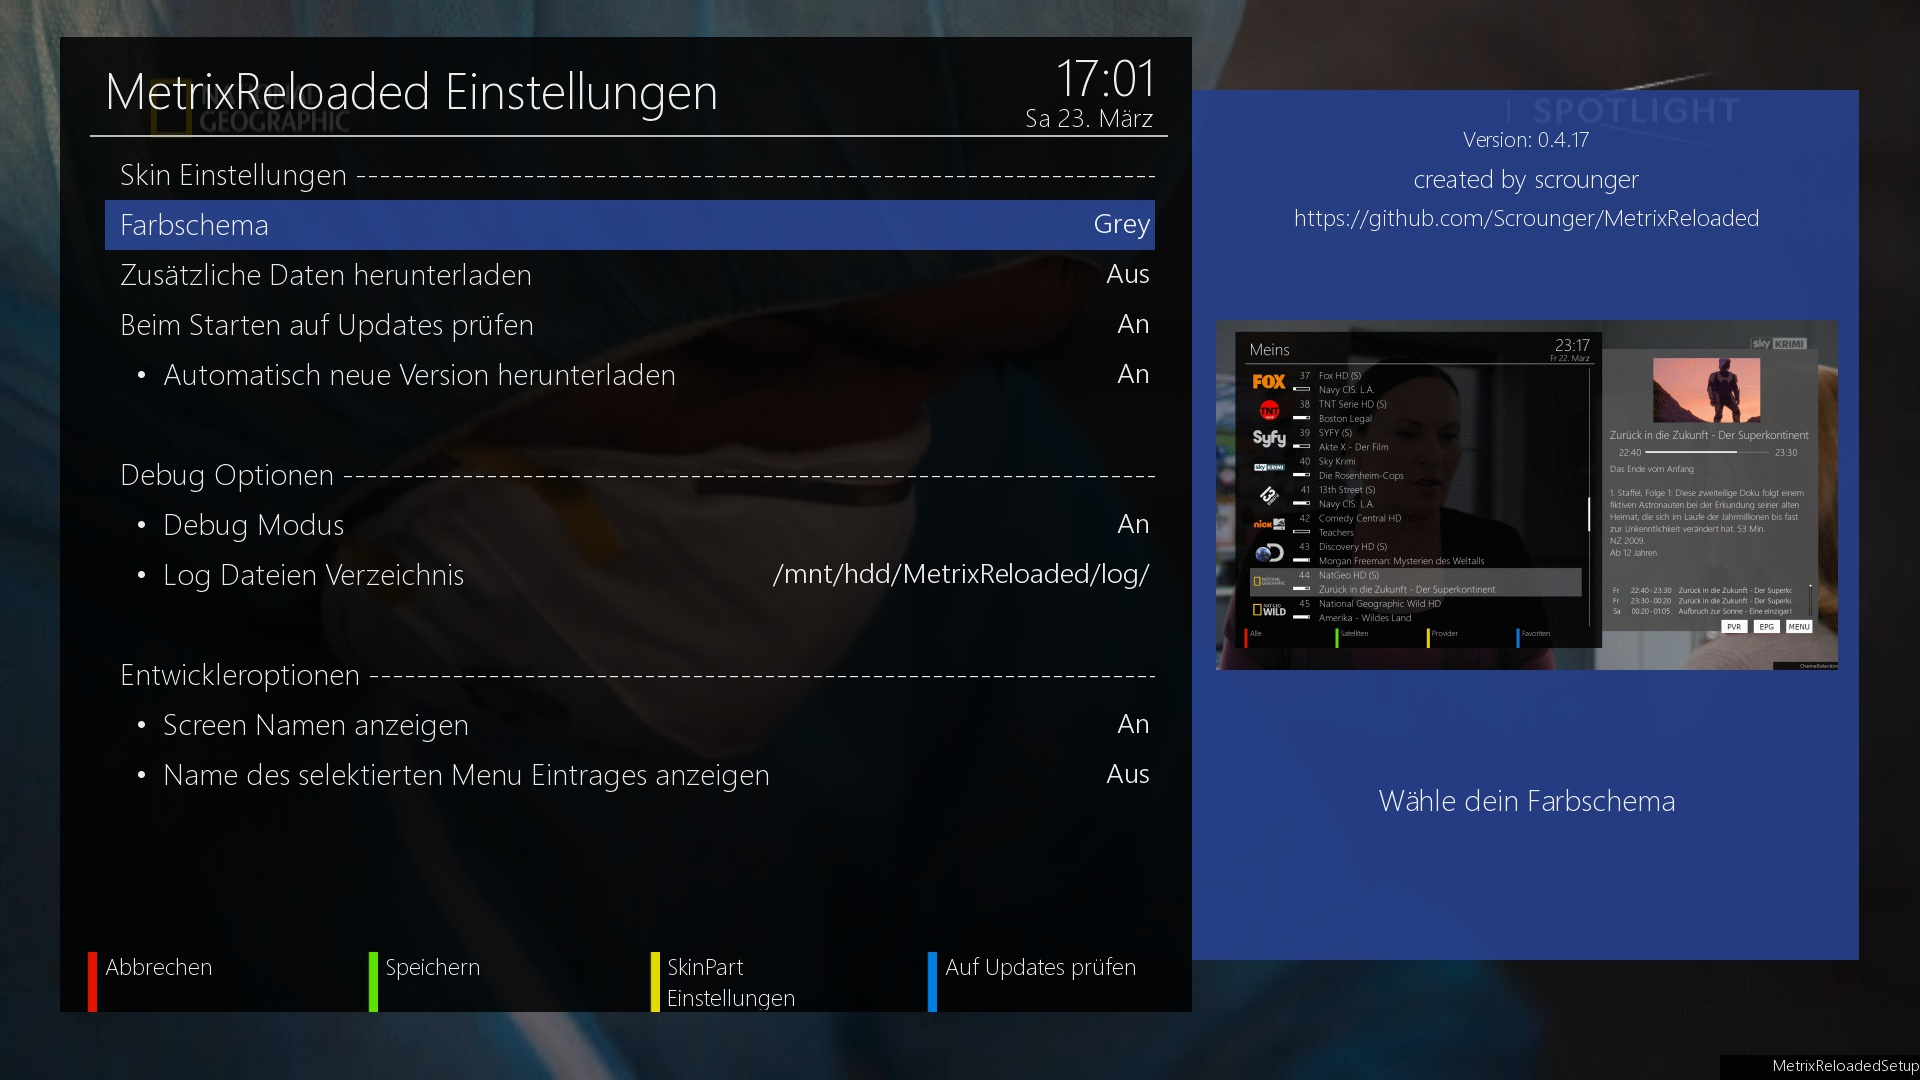
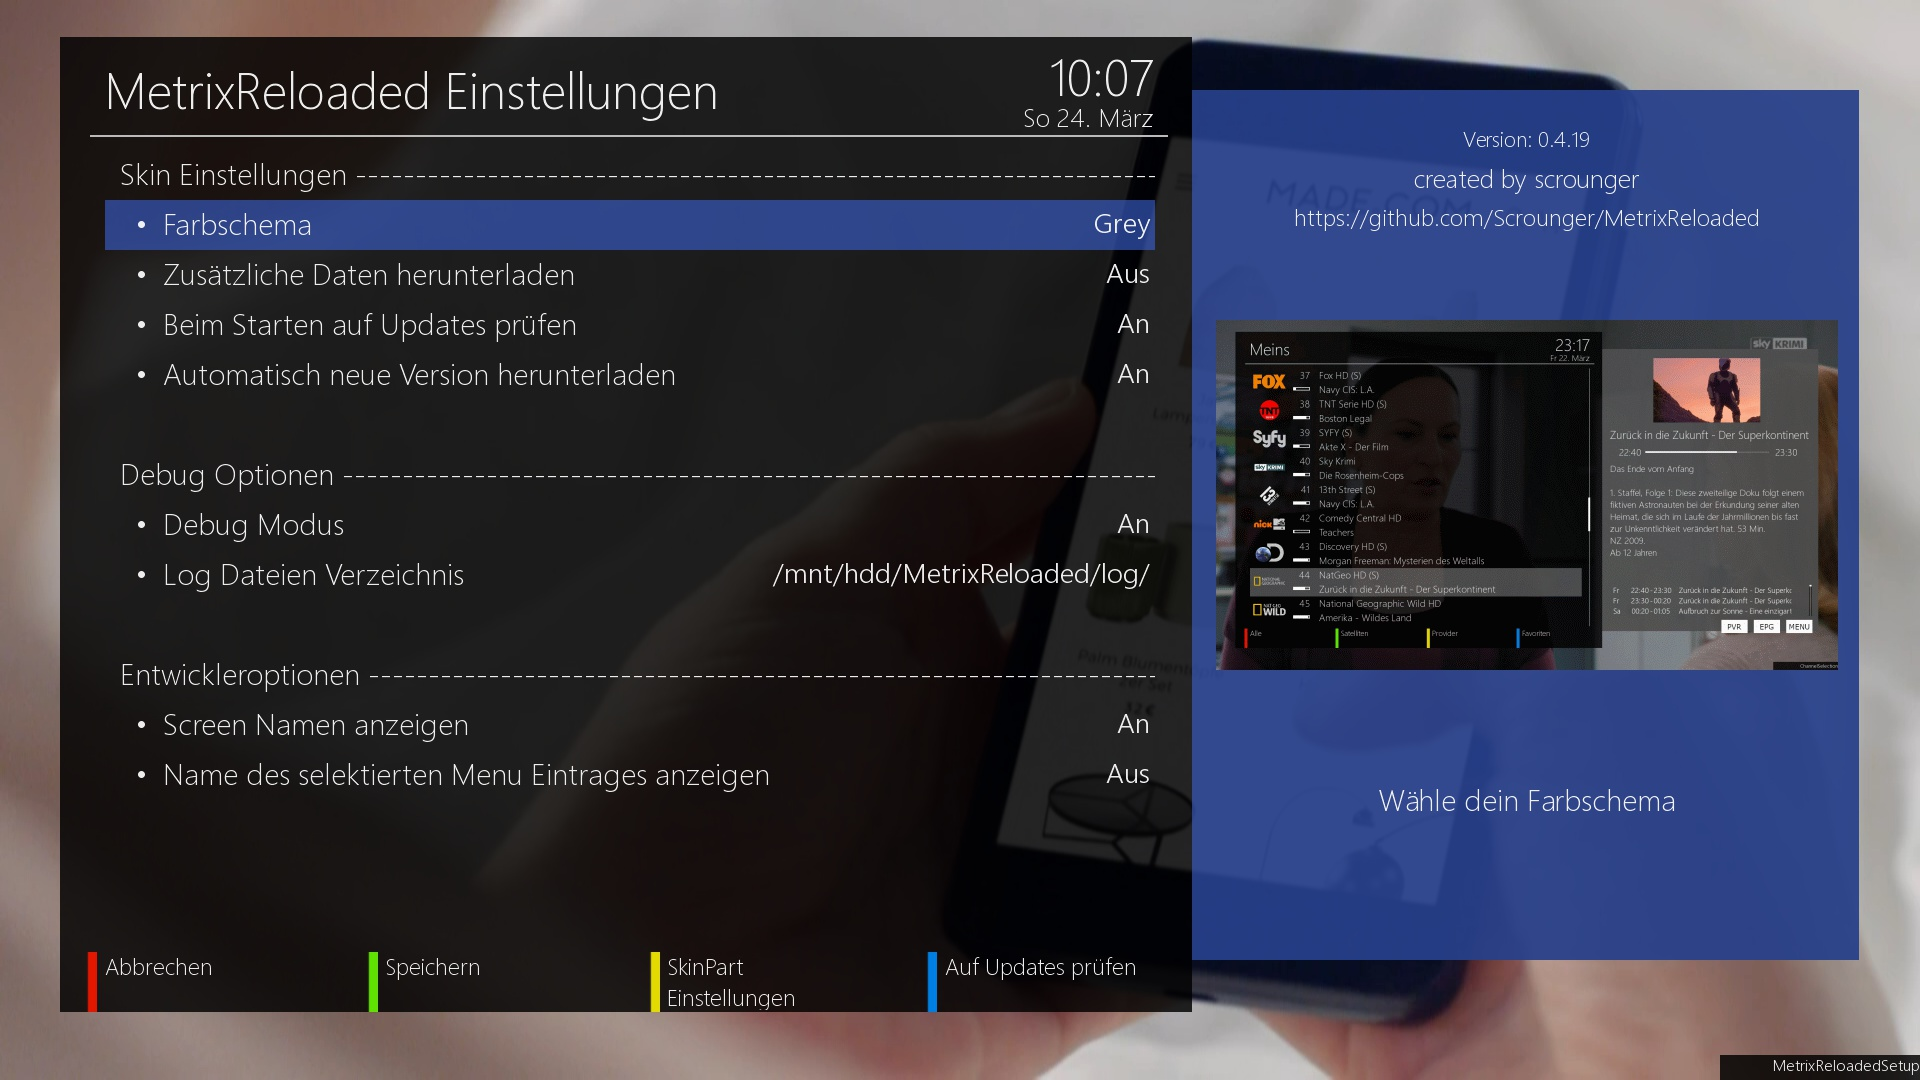
MetrixReloadedSetup: layout bug fixes

diff --git a/lib/Plugins/Extensions/MetrixReloaded/MetrixReloadedSetup.py b/lib/Plugins/Extensions/MetrixReloaded/MetrixReloadedSetup.py
@@ -71,15 +71,15 @@ class MetrixReloadedSetup(Screen, ConfigListScreen):
         try:
             self.getInitConfig()
 
-            self.set_color = getConfigListEntry(_("Color scheme:"), self.myColorScheme, _("Choose your color scheme")) 
+            self.set_color = getConfigListEntry(self.htmlParser.unescape(_("  &#8226;  Color scheme:")), self.myColorScheme, _("Choose your color scheme")) 
 
             self.list = [
                 getConfigListEntry(
                     _("skin options -------------------------------------------------------------------------------------------------------------"), NoSave(ConfigNothing())),
                 self.set_color,
-                getConfigListEntry(_("Download additional data"), config.plugins.MetrixReloaded.onlineMode, _(
+                getConfigListEntry(self.htmlParser.unescape(_("  &#8226;  Download additional data")), config.plugins.MetrixReloaded.onlineMode, _(
                     "Download additional data such as images. Requires internet connection!")),
-                getConfigListEntry(_("Check for skin update on startup"), config.plugins.MetrixReloaded.checkNewVersionOnStartUp, _(
+                getConfigListEntry(self.htmlParser.unescape(_("  &#8226;  Check for skin update on startup")), config.plugins.MetrixReloaded.checkNewVersionOnStartUp, _(
                     "Checks on startup (boot or standby) if a new skin version is available to download. Requires internet connection!")),
                 getConfigListEntry(self.htmlParser.unescape(_("  &#8226;  Auto download new version")), config.plugins.MetrixReloaded.autoDownloadNewVersion, _(
                     "New version of MetrixReloaded skin will be automatically downloaded. You will get an information if new version is ready to install")),
